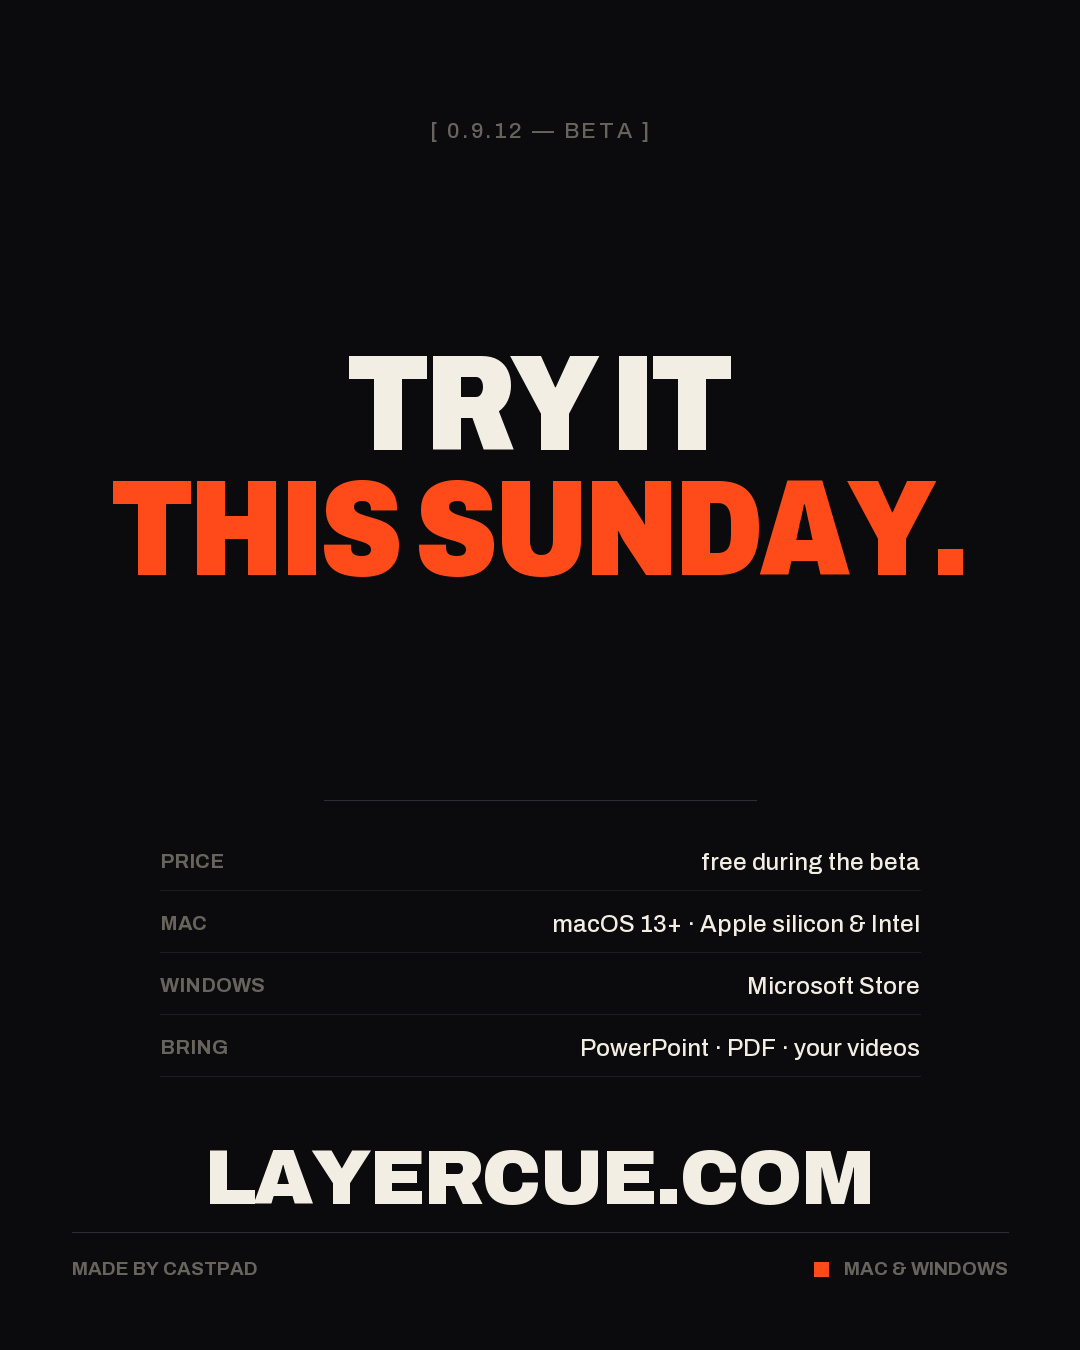
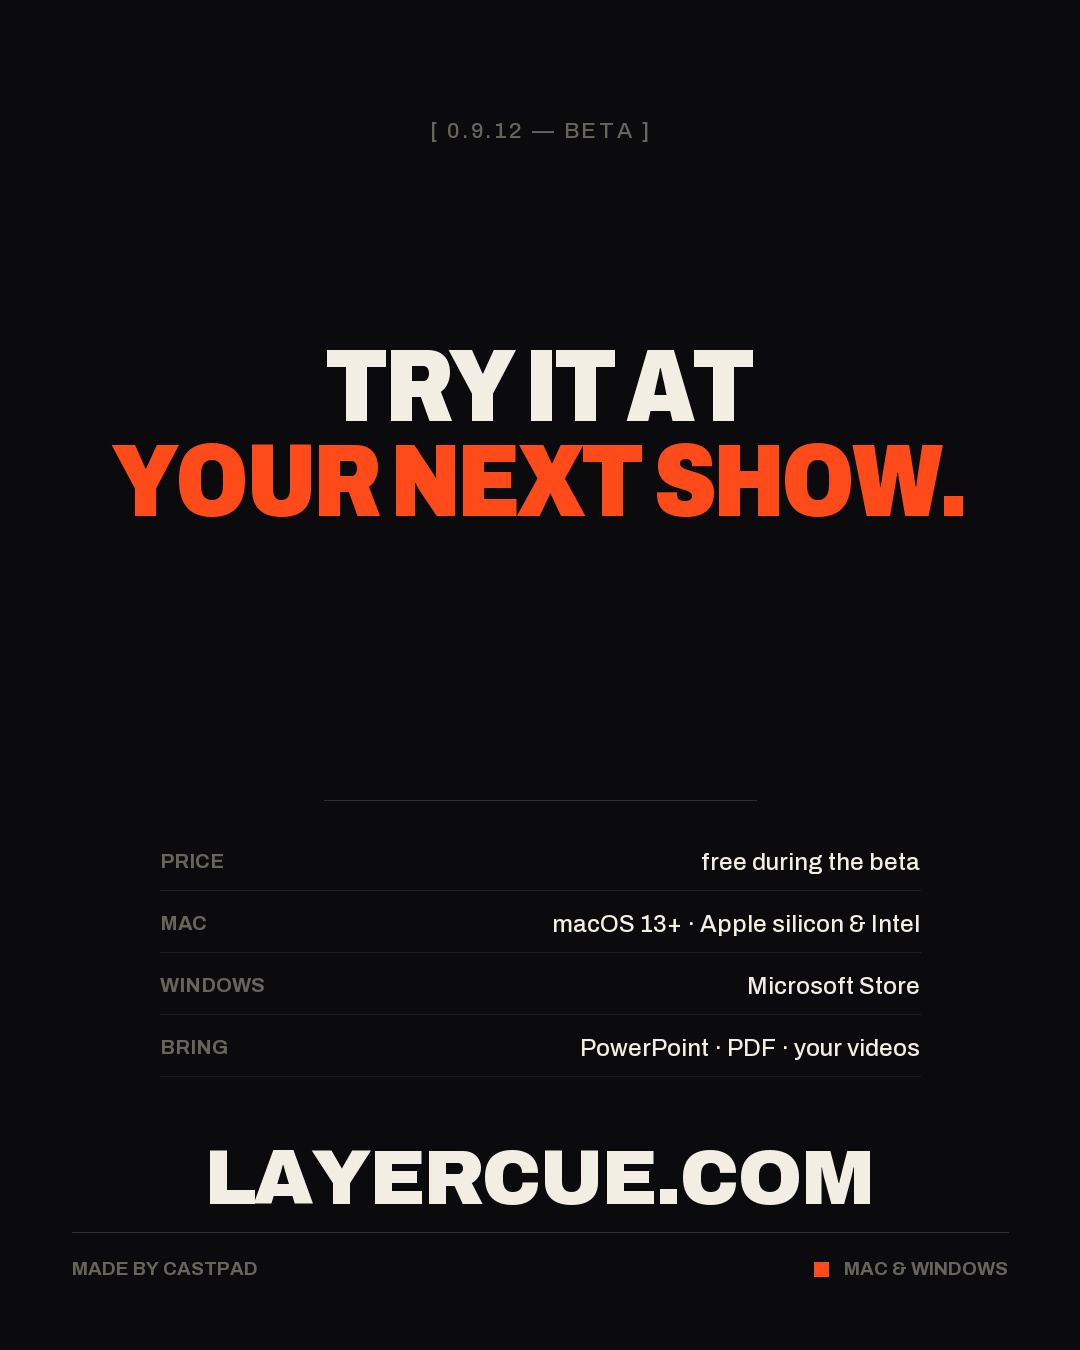
ProPresenter 게시물: 값 숫자 빼고, 주일 대신 「다음 공연」, 이름은 제 표기로

Changed region(s): [[0.0917, 0.2489, 0.9167, 0.4356]]

diff --git a/tools/vs_propresenter.py b/tools/vs_propresenter.py
@@ -3,9 +3,9 @@
 
     python3 tools/vs_propresenter.py   → posts/2026-10-30-propresenter/1.jpg … 4.jpg
 
-★ 남의 제품 이름을 건 글이다. 지키는 것 둘:
-  - 값은 공식 페이지(renewedvision.com/propresenter/#pricing, 2026-10-29 확인)에 적힌 그대로.
-    바뀌면 PRICE 와 캡션을 같이 고친다.
+★ 남의 제품 이름을 건 글이다. 지키는 것 셋:
+  - 값(숫자)은 적지 않는다. 「부담됐다면」까지만 — 남의 값을 광고에 박으면 바뀔 때마다 틀린 글이 된다.
+  - 교회·주일에 묶지 않는다. 행사·학교·공연장 어디서나 쓰는 물건이다.
   - 깎아내리지 않는다. 「다 쓰면 그대로 쓰라」를 3장에 적는다 — 이 글의 신용이 거기서 나온다.
 판은 whats_new_0912.py 의 것을 그대로 쓴다.
 """
@@ -19,22 +19,18 @@ spec.loader.exec_module(wn)
 c, W, H = wn.c, wn.W, wn.H
 OUT = os.path.join(os.path.dirname(HERE), "posts", "2026-10-30-propresenter")
 
-PRICE = "$289"
-SOURCE = "*PROPRESENTER STANDARD, PER SEAT, BILLED YEARLY — RENEWEDVISION.COM, OCT 2026"
-
-
-# ── 1. 값 ─────────────────────────────────────────────────────────────────────
+# ── 1. 부담 ───────────────────────────────────────────────────────────────────
 def s1():
     img, d = c.base()
     c.tracked(d, "[ FOR THE REST OF US ]", c.font(22, 500), W // 2, 118, c.FAINT, track=2.6)
-    size = c.fit_size("PER COMPUTER.*", W * 0.84, 900, 84)     # 긴 줄에 맞춘다
-    c.tracked(d, f"{PRICE} A YEAR,", c.font(size, 900, 84), W // 2, 300, c.CREAM, track=c.TRACK * size)
-    c.tracked(d, "PER COMPUTER.*", c.font(size, 900, 84), W // 2, 300 + size * 0.92, c.HOT, track=c.TRACK * size)
+    # ★ 제품 이름은 제 표기(ProPresenter) 그대로 — 다 대문자로 쓰면 무슨 물건인지 한눈에 안 들어온다
+    size = c.fit_size("PRICED OUT OF", W * 0.84, 900, 84)
+    c.tracked(d, "PRICED OUT OF", c.font(size, 900, 84), W // 2, 300, c.CREAM, track=c.TRACK * size)
+    c.tracked(d, "ProPresenter?", c.font(size, 900, 84), W // 2, 300 + size * 0.98, c.HOT, track=c.TRACK * size)
 
-    c.tracked(d, "THAT’S PROPRESENTER.", c.font(40, 800, 96), W // 2, 720, c.CREAM, track=1.0)
-    c.tracked(d, "FOR A LOT OF ROOMS, THAT’S THE WHOLE MEDIA BUDGET.",
+    c.tracked(d, "A LICENSE FOR EVERY COMPUTER ADDS UP.", c.font(36, 800, 96), W // 2, 720, c.CREAM, track=1.0)
+    c.tracked(d, "ESPECIALLY WHEN YOU USE A FRACTION OF IT.",
               c.font(22, 500), W // 2, 790, c.MUTE, track=1.6)
-    c.tracked(d, SOURCE, c.font(15, 500), W // 2, H - 160, c.FAINT, track=1.2)
     return img
 
 
@@ -78,9 +74,9 @@ def s3():
 def s4():
     img, d = c.base(footer_left="MADE BY CASTPAD", footer_right="MAC & WINDOWS")
     c.tracked(d, "[ 0.9.12 — BETA ]", c.font(22, 500), W // 2, 118, c.FAINT, track=2.6)
-    size = c.fit_size("THIS SUNDAY.", W * 0.80, 900, 84)
-    c.tracked(d, "TRY IT", c.font(size, 900, 84), W // 2, 330, c.CREAM, track=c.TRACK * size)
-    c.tracked(d, "THIS SUNDAY.", c.font(size, 900, 84), W // 2, 330 + size * 0.92, c.HOT, track=c.TRACK * size)
+    size = c.fit_size("YOUR NEXT SHOW.", W * 0.80, 900, 84)
+    c.tracked(d, "TRY IT AT", c.font(size, 900, 84), W // 2, 330, c.CREAM, track=c.TRACK * size)
+    c.tracked(d, "YOUR NEXT SHOW.", c.font(size, 900, 84), W // 2, 330 + size * 0.92, c.HOT, track=c.TRACK * size)
     d.line([(W * 0.30, 800), (W * 0.70, 800)], fill=(46, 46, 50), width=1)
     wn.table(d, [("PRICE", "free during the beta"),
                  ("MAC", "macOS 13+ · Apple silicon & Intel"),
